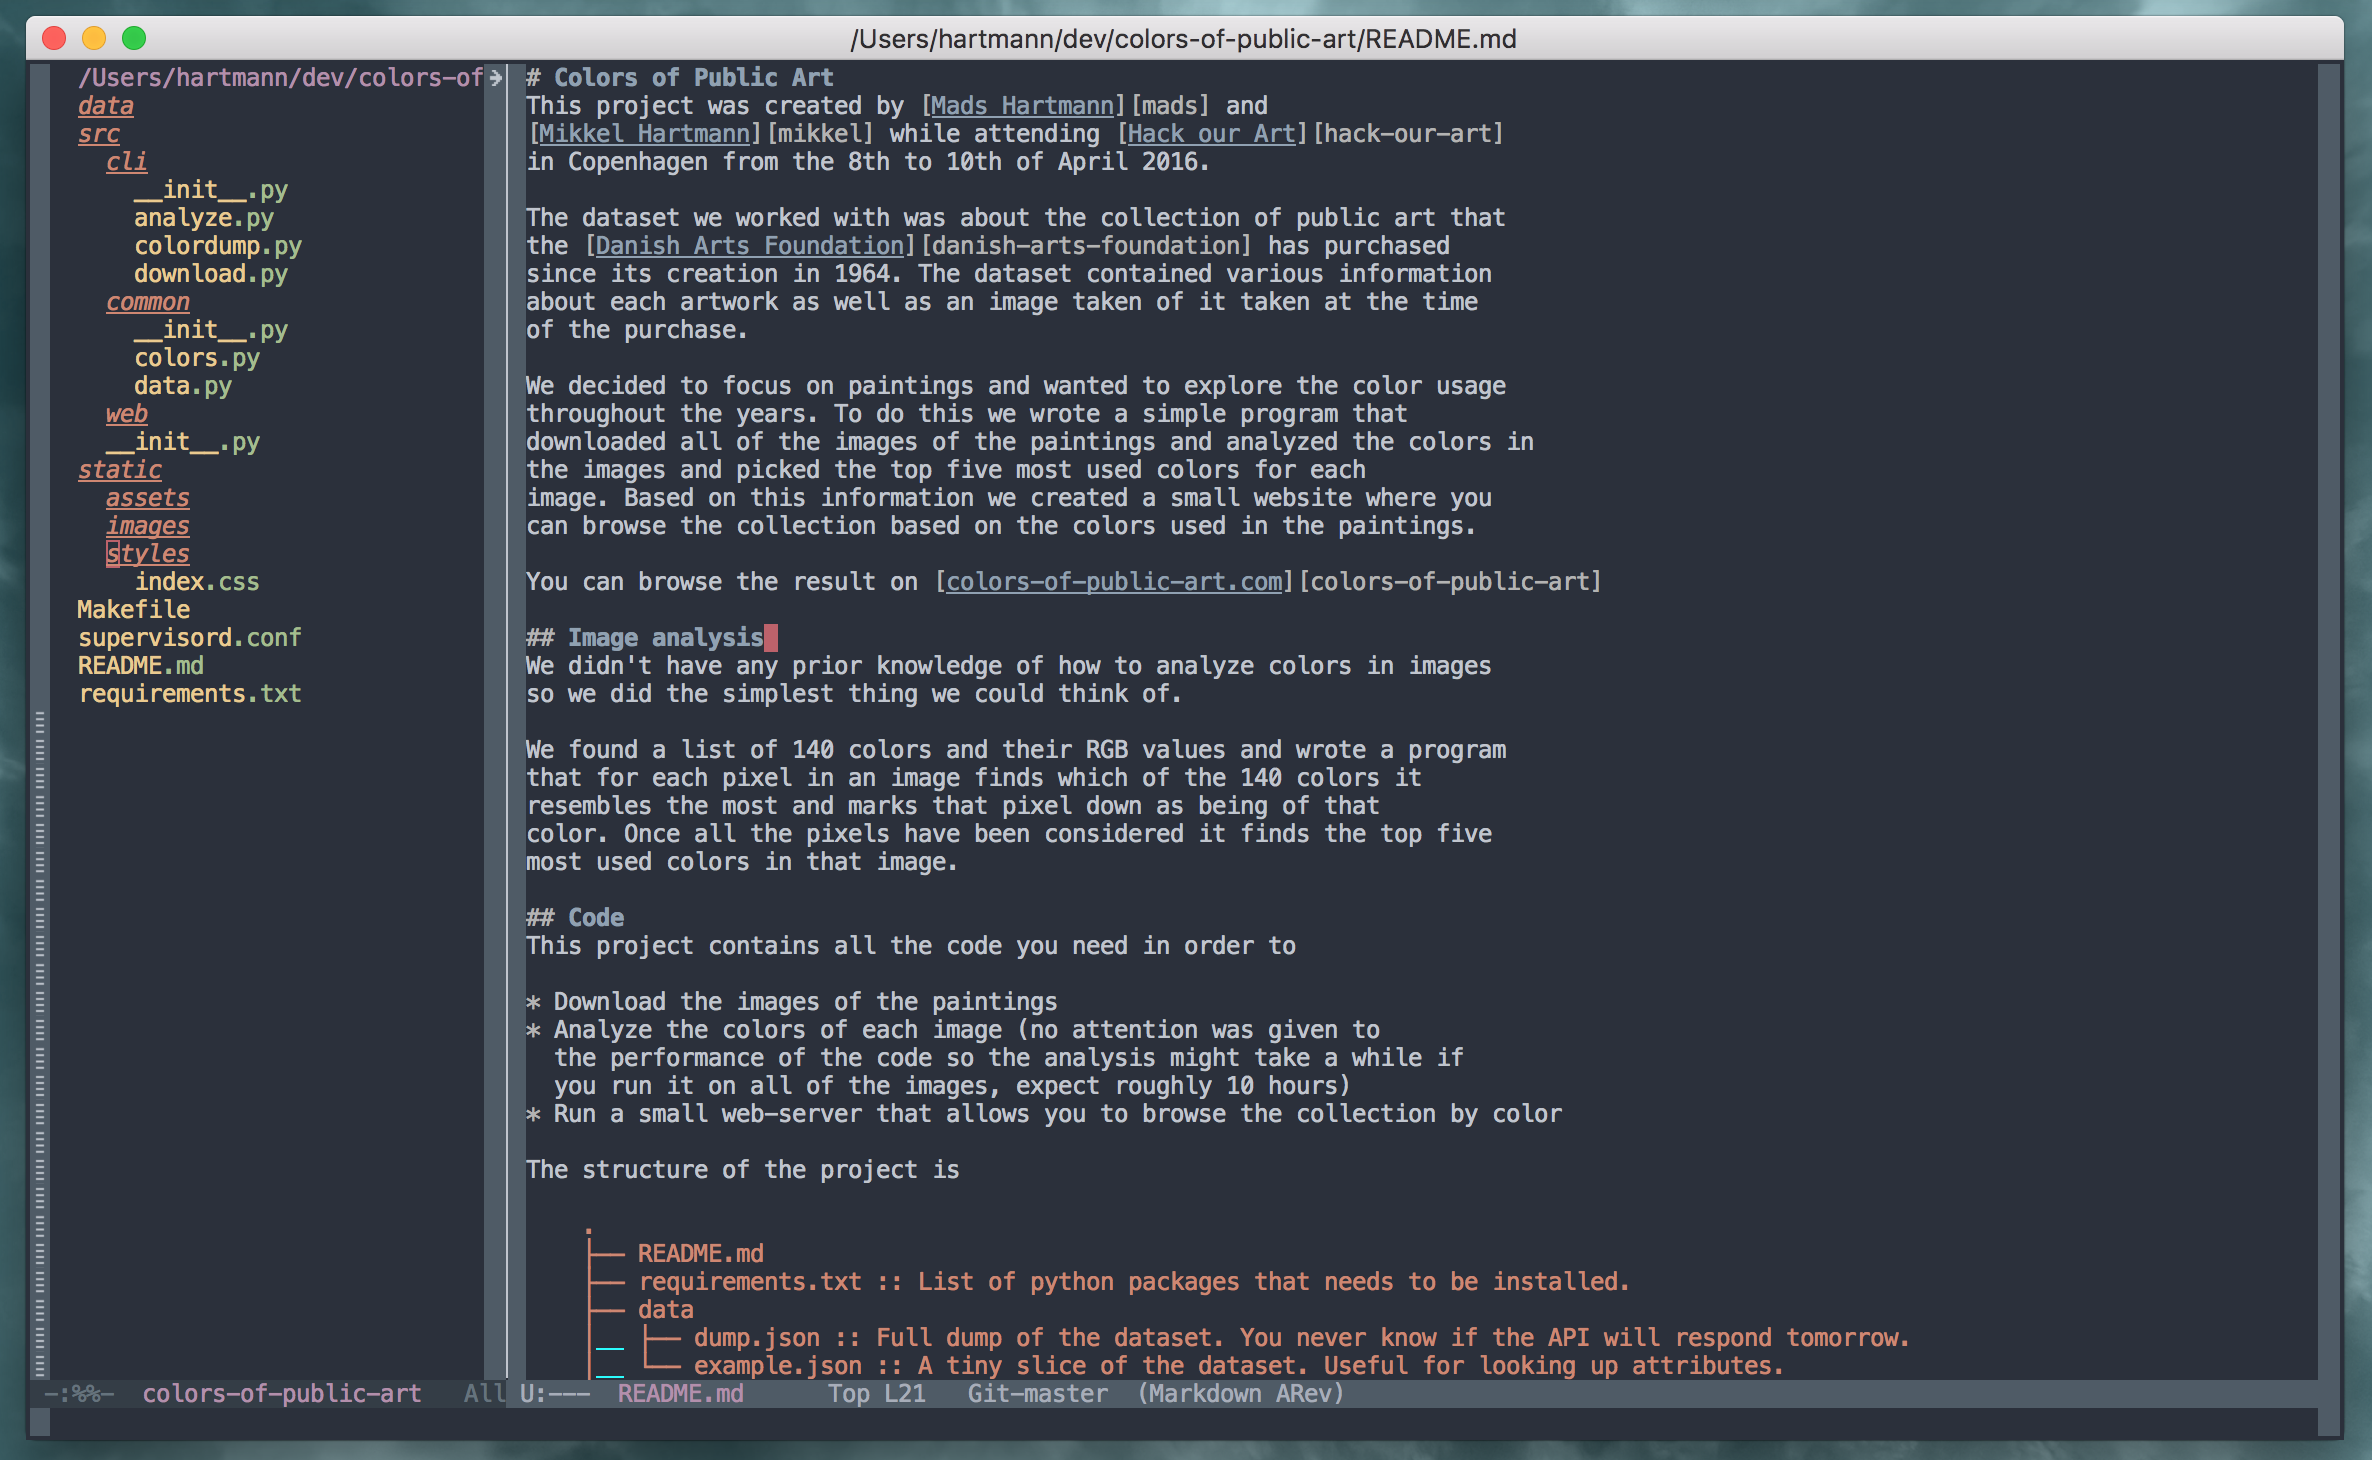
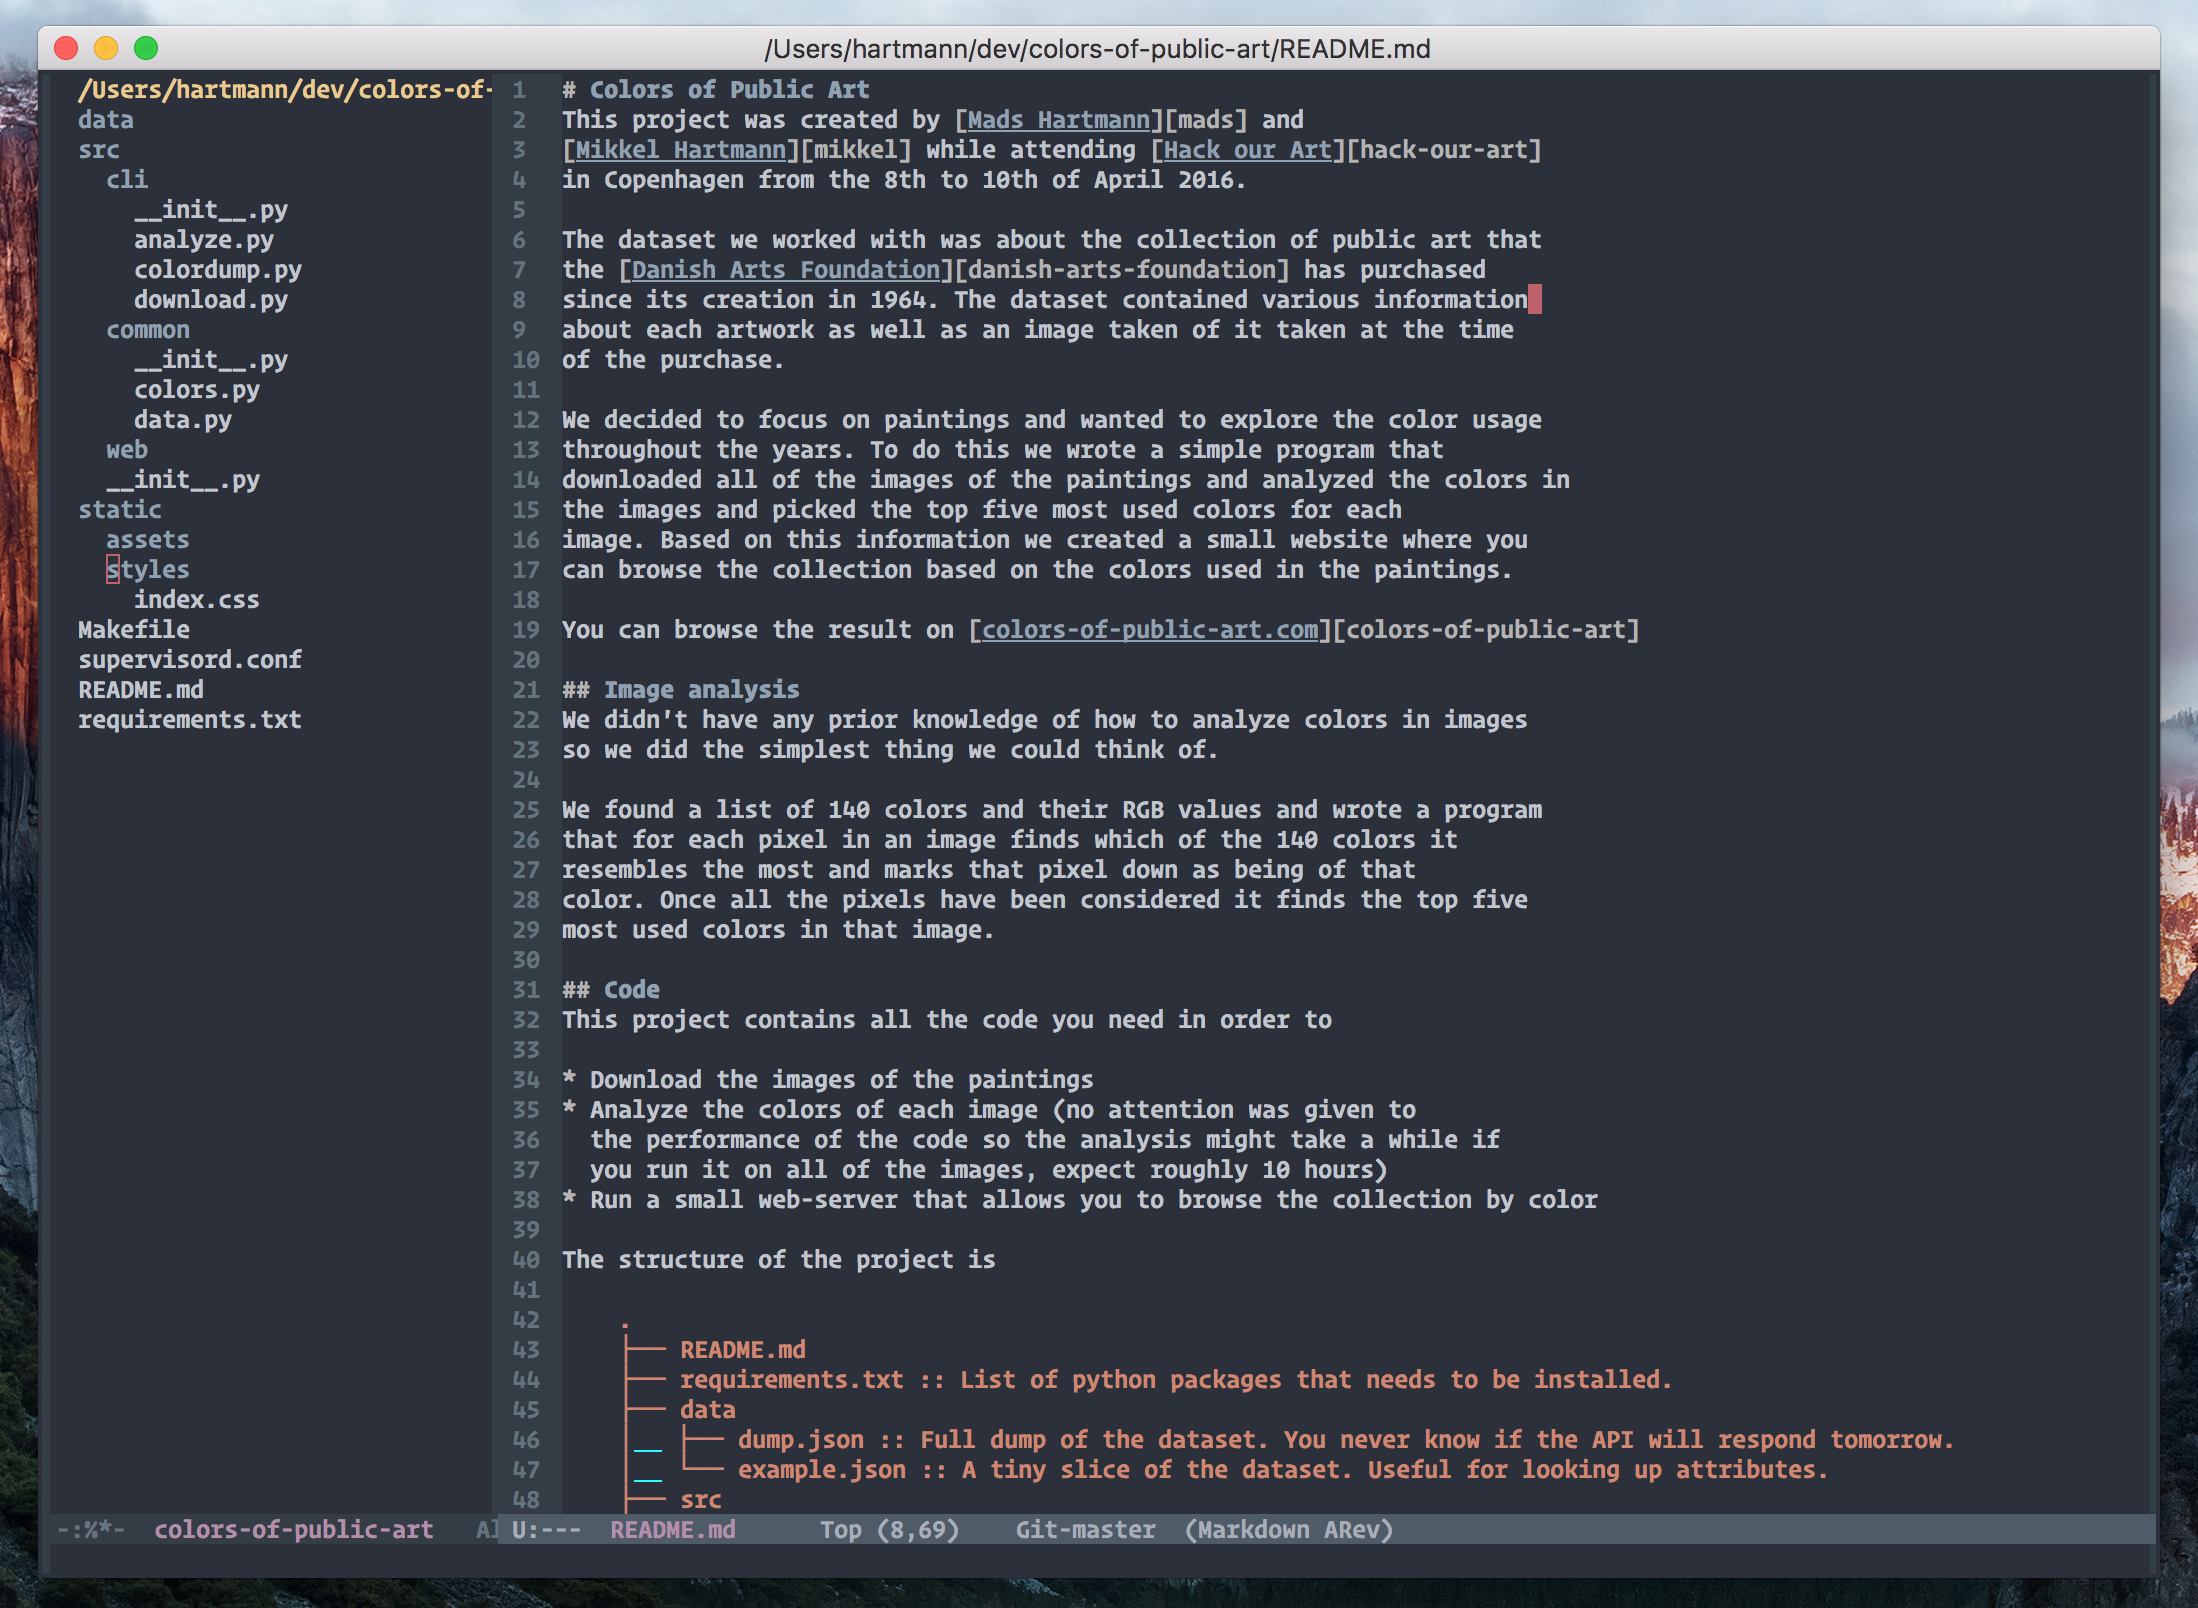
Update screenshot and remove reference to diredp

Changed region(s): [[0.0, 0.0, 1.0, 1.0]]

diff --git a/_posts/2016-05-12-emacs-tree-view.html b/_posts/2016-05-12-emacs-tree-view.html
@@ -65,10 +65,10 @@ tree-like dired buffer.
   :demand
   :bind
   (:map dired-mode-map
-        ("&lt;enter&gt;" . mhj/dwim-toggle-or-open)
-        ("&lt;return&gt;" . mhj/dwim-toggle-or-open)
-        ("&lt;tab&gt;" . mhj/dwim-toggle-or-open)
-        ("&lt;down-mouse-1&gt;" . mhj/mouse-dwim-to-toggle-or-open))
+	("&lt;enter&gt;" . mhj/dwim-toggle-or-open)
+	("&lt;return&gt;" . mhj/dwim-toggle-or-open)
+	("&lt;tab&gt;" . mhj/dwim-toggle-or-open)
+	("&lt;down-mouse-1&gt;" . mhj/mouse-dwim-to-toggle-or-open))
   :config
   (progn
     ;; Function to customize the line prefixes (I simply indent the lines a bit)
@@ -91,20 +91,20 @@ the point when you execute it. Here's the implementation.
   (interactive)
   (if (file-directory-p (dired-get-file-for-visit))
       (progn
-        (dired-subtree-toggle)
-        (revert-buffer))
+	(dired-subtree-toggle)
+	(revert-buffer))
     (dired-find-file)))
 
 (defun mhj/mouse-dwim-to-toggle-or-open (event)
   "Toggle subtree or the open file on mouse-click in dired."
   (interactive "e")
   (let* ((window (posn-window (event-end event)))
-         (buffer (window-buffer window))
-         (pos (posn-point (event-end event))))
+	 (buffer (window-buffer window))
+	 (pos (posn-point (event-end event))))
     (progn
       (with-current-buffer buffer
-        (goto-char pos)
-        (mhj/dwim-toggle-or-open)))))
+	(goto-char pos)
+	(mhj/dwim-toggle-or-open)))))
 </pre>
 </div>
 
@@ -116,15 +116,14 @@ files I don't care about I use the following configuration
 
 <div class="org-src-container">
 
-<pre class="src src-elisp">(use-package dired+
-  :demand
-  :init
+<pre class="src src-elisp">(use-package dired
+  :ensure nil
+  :config
   (progn
-    ;; Folders on top.
     (setq insert-directory-program "/usr/local/opt/coreutils/libexec/gnubin/ls")
     (setq dired-listing-switches "-lXGh --group-directories-first")
-    ;; Hide a bunch of file types I don't care about.
-    (add-hook 'dired-mode-hook 'dired-omit-mode)))
+    (add-hook 'dired-mode-hook 'dired-omit-mode)
+    (add-hook 'dired-mode-hook 'dired-hide-details-mode)))
 </pre>
 </div>
 
@@ -147,9 +146,9 @@ the last two requirements we use two very handy Emacs features:
   "Toggle the project explorer window."
   (interactive)
   (let* ((buffer (dired-noselect (projectile-project-root)))
-        (window (get-buffer-window buffer)))
+	(window (get-buffer-window buffer)))
     (if window
-        (mhj/hide-project-explorer)
+	(mhj/hide-project-explorer)
       (mhj/show-project-explorer))))
 
 (defun mhj/show-project-explorer ()
